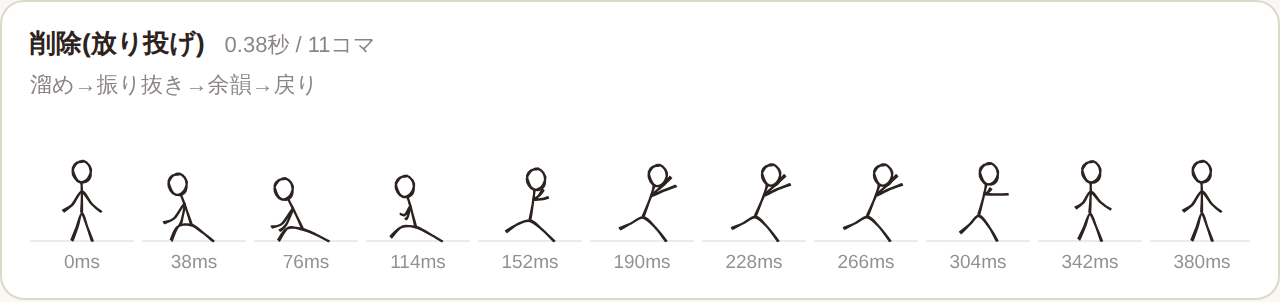
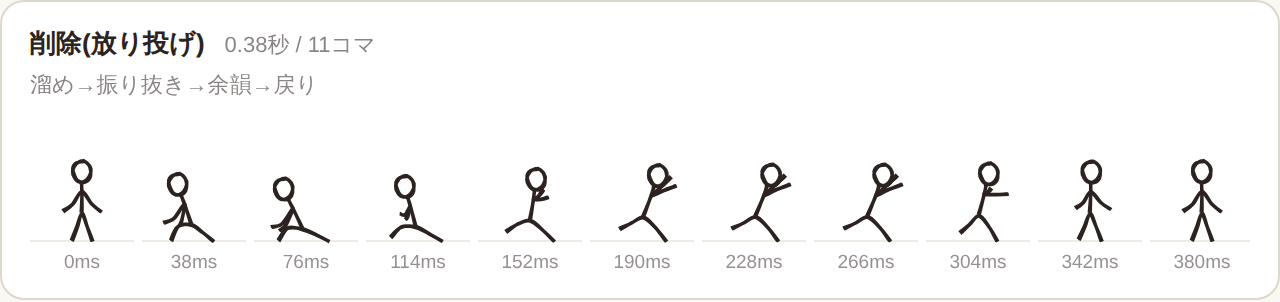
棒人間の線を太くし、ざらつきを半分に抑えて存在感を戻す
線幅1.3は文字サイズまで縮むと1px未満になり、薄いグレーににじんで見えていた。
本文の文字の線の太さになじむ2.0に。あわせてテクスチャ範囲を広げた際に粒が粗く
なったざらつき(線が透ける部分)を、白の上に画像を50%で重ねて半分に抑えた。
rough.jsが使えない時の予備描画の線幅も揃えた。図鑑PNGも書き出し直し。

Claude-Session: https://claude.ai/code/session_01HG8sCsKqCo4Dxu5mMbs57H

diff --git a/index.html b/index.html
@@ -73,6 +73,9 @@
                   鉛筆テクスチャ画像もこの範囲全体に敷く(縦横比を保ったまま覆うslice)。画像の範囲が
                   狭いと、その外側は「テクスチャなし=真っ黒な線」になり、ジャンプで頭が境目をまたいだ時に
                   濃さの差が横線のように見えてしまうため。本番のテクスチャ画像は横3:縦5の比率で作るとよい。
+                  白いrectの上に画像をopacity 0.5で重ねているのは、ざらつき(線が透ける部分)の効き具合を半分に
+                  抑えるため。そのままだと文字サイズくらいまで縮んだ時に線全体が薄いグレーに見えてしまう。
+                  もっと濃く/かすれさせたい時はこのopacityを上げ下げする(1=画像そのまま、0=ざらつきなし)。
                 -->
                 <mask
                   id="pencil-mask"
@@ -83,6 +86,7 @@
                   height="100"
                   maskContentUnits="userSpaceOnUse"
                 >
+                  <rect x="-30" y="-70" width="60" height="100" fill="#fff" />
                   <image
                     href="/textures/pencil-grain-placeholder.png"
                     x="-30"
@@ -90,6 +94,7 @@
                     width="60"
                     height="100"
                     preserveAspectRatio="xMidYMid slice"
+                    opacity="0.5"
                   />
                 </mask>
               </defs>

diff --git a/src/render.ts b/src/render.ts
@@ -18,7 +18,7 @@ const JITTER_AMOUNT = 0.5;
 // rough.js: 比較検証ツール(5倍スケール)で調整した値を、このプロトタイプの座標系(1/5)に換算した値
 const ROUGH_ROUGHNESS = 0.34;
 const ROUGH_BOWING = 0.3;
-const ROUGH_STROKE_WIDTH = 1.3;
+const ROUGH_STROKE_WIDTH = 2; // 1.3だと文字サイズまで縮んだ時に1px未満になって薄いグレーに見えたので、本文の文字の線の太さに合わせた
 const ROUGH_SEED = 7; // 固定シード(line boilとの二重ゆらぎを避けるため、毎ティックは変えない)
 
 export interface RendererElements {

diff --git a/motion-review.html b/motion-review.html
@@ -32,6 +32,7 @@
                   height="100"
                   maskContentUnits="userSpaceOnUse"
                 >
+                  <rect x="-30" y="-70" width="60" height="100" fill="#fff" />
                   <image
                     href="/textures/pencil-grain-placeholder.png"
                     x="-30"
@@ -39,6 +40,7 @@
                     width="60"
                     height="100"
                     preserveAspectRatio="xMidYMid slice"
+                    opacity="0.5"
                   />
                 </mask>
               </defs>

diff --git a/src/style.css b/src/style.css
@@ -283,7 +283,7 @@ body {
 .stroke {
   fill: none;
   stroke: var(--ink);
-  stroke-width: 4;
+  stroke-width: 2; /* rough.jsが使えない時の予備の描画。render.tsのROUGH_STROKE_WIDTHと揃える */
   stroke-linecap: round;
   stroke-linejoin: round;
 }

diff --git a/src/motionReview/style.css b/src/motionReview/style.css
@@ -105,7 +105,7 @@ h1 {
 .stroke {
   fill: none;
   stroke: var(--ink);
-  stroke-width: 4;
+  stroke-width: 2; /* rough.jsが使えない時の予備の描画。render.tsのROUGH_STROKE_WIDTHと揃える */
   stroke-linecap: round;
   stroke-linejoin: round;
 }
